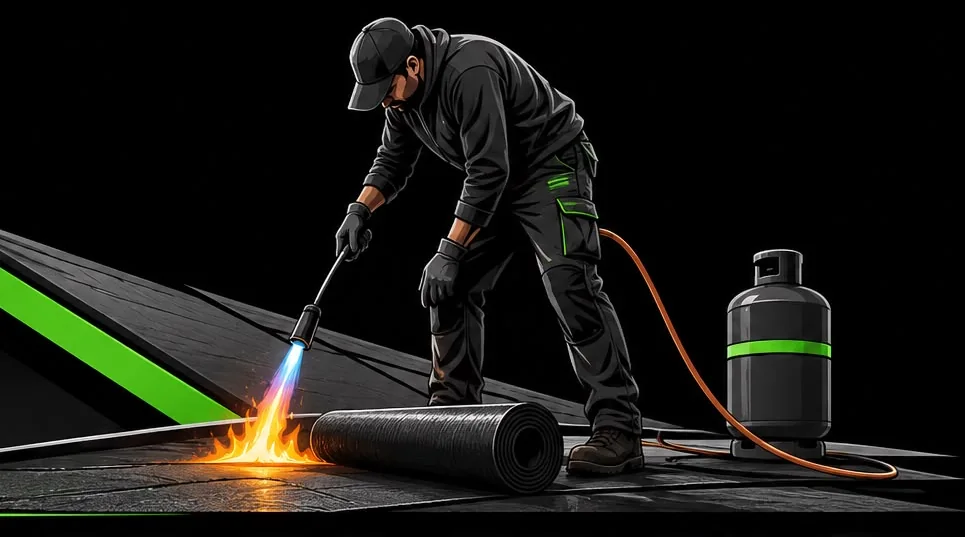
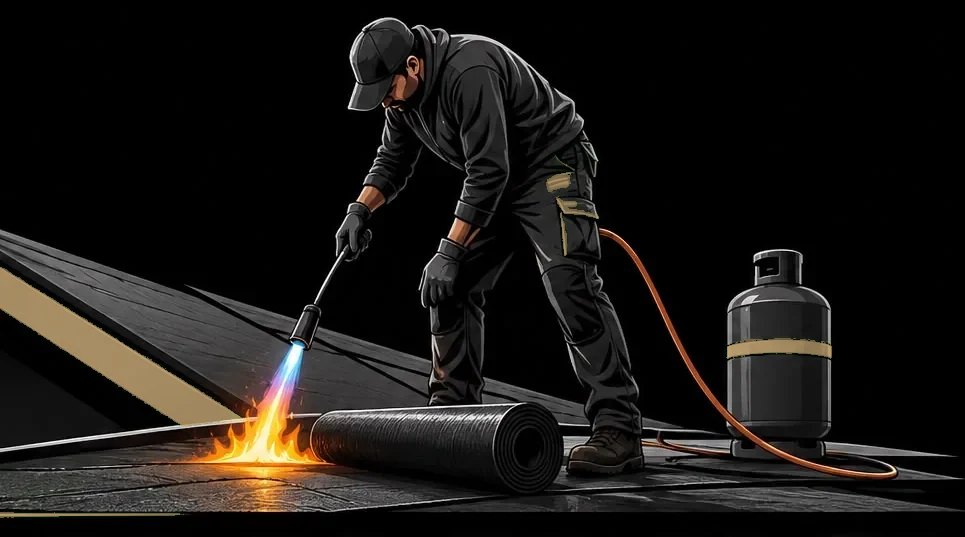
edit

diff --git a/src/app.css b/src/app.css
@@ -229,6 +229,15 @@ html[data-lime] .torch{display:block}
 .torch .e{left:28%;top:73%;width:var(--sz);height:var(--sz);border-radius:50%;background:#ffc15a;box-shadow:0 0 7px 2px rgba(255,150,40,.8);opacity:0;animation:emberup var(--d) var(--dl) linear infinite;will-change:transform,opacity}
 @keyframes emberup{0%{transform:translate3d(0,0,0) scale(1);opacity:0}10%{opacity:1}100%{transform:translate3d(var(--dx),var(--dy),0) scale(.25);opacity:0}}
 @media(prefers-reduced-motion:reduce){html[data-lime] .torch .e{display:none}}
+.werk-grid{display:grid;align-items:center;gap:1.75rem}
+@media(min-width:900px){.werk-grid{grid-template-columns:minmax(0,1.05fr) minmax(0,.95fr);column-gap:2.75rem}}
+.werk-art .hero-art-w{display:block;position:relative;width:100%;aspect-ratio:965/537}
+.werk-art .hero-art{-webkit-mask-image:none;mask-image:none}
+html[data-style="bruin"] .werk-art .torch{display:block!important}
+@media(prefers-reduced-motion:reduce){
+  .werk-art .torch .e{display:none}
+  .werk-art .t-halo,.werk-art .t-core,.werk-art .t-cast{animation:none}
+}
 .pano,.pano-card,.roofer-sec{display:none}
 html[data-lime] .roofer-sec{display:block}
 .pano img{width:100%;height:100%;object-fit:cover;object-position:68% 55%;display:block}

diff --git a/src/build.py b/src/build.py
@@ -167,7 +167,7 @@ def hero_photo(src, alt, pos="50% 50%", eager=True, pano=False):
 def roofer_art():
     eb = "".join(f'<i class="e" style="--dx:{dx}px;--dy:{dy}px;--d:{d}s;--dl:{dl}s;--sz:{sz}px"></i>' for dx, dy, d, dl, sz in
                  [(14,-70,2.6,0,3),(34,-112,3.4,.5,2),(-8,-96,3.0,1.1,3),(52,-140,3.8,1.6,2),(22,-60,2.2,2.0,4),(70,-124,4.0,.9,2),(6,-132,3.6,2.4,2),(40,-84,2.8,1.4,3),(-20,-78,2.4,.3,2),(62,-100,3.2,2.9,3),(28,-150,4.2,3.3,2),(10,-52,2.0,1.9,3)])
-    return ('<div class="hero-art-w"><img class="hero-art" src="/img/roofer.webp" width="965" height="537" loading="eager" alt="Dakdekker van Johnny\'s Dakwerken aan het werk op een dak met brander en bitumen"/>'
+    return ('<div class="hero-art-w"><img class="hero-art" src="/img/roofer.webp?v=gold" width="965" height="537" loading="eager" alt="Dakdekker van Johnny\'s Dakwerken aan het werk op een dak met brander en bitumen"/>'
             f'<span class="torch" aria-hidden="true"><i class="t-cast"></i><i class="t-halo"></i><i class="t-core"></i>{eb}</span></div>')
 
 FX = '<div class="fx" aria-hidden="true"></div>'
@@ -275,7 +275,7 @@ def home():
       f'<p class="text-[13px] font-semibold uppercase tracking-[0.16em] text-brand">Aan het werk</p><h2 class="mt-3 font-serif text-[clamp(1.55rem,3.55vw,2.45rem)] font-semibold leading-tight text-ink">Vakwerk op uw dak</h2>'
       f'<p class="mt-4 max-w-md text-lg text-muted">Johnny\'s Dakwerken pakt het dakwerk aan met vakkennis en eigen materieel. Vraag een offerte aan of bel voor een vrijblijvende inspectie.</p><div class="mt-6">{hero_cta()}</div></div><div>{roofer_art()}</div></div></section>'
       f'<section class="sec-pad border-y border-line bg-band px-5"><div class="mx-auto grid max-w-6xl items-center gap-6 md:grid-cols-[auto_1fr] md:gap-14">'
-      f'<div class="johnny-shot relative aspect-[4/5] w-full overflow-hidden r-img shadow-xl md:aspect-[3/4] md:w-[260px]"><img src="/img/johnny.jpg?v=2" alt="Johnny van Ophuizen" loading="eager" class="absolute inset-0 h-full w-full object-cover" style="object-position:50% 42%"/></div>'
+      f'<div class="johnny-shot relative aspect-[4/5] w-full overflow-hidden r-img shadow-xl md:aspect-[3/4] md:w-[260px]"><img src="/img/johnny.jpg?v=3" alt="Johnny van Ophuizen" loading="eager" class="absolute inset-0 h-full w-full object-cover" style="object-position:50% 42%"/></div>'
       f'<div><p class="text-[13px] font-semibold uppercase tracking-[0.16em] text-brand">Over ons</p>'
       f'<h2 class="mt-3 font-serif text-[clamp(1.55rem,3.55vw,2.45rem)] font-medium leading-tight text-ink">Even voorstellen: Johnny</h2>'
       f'<p class="mt-4 max-w-2xl text-lg text-muted">Met ruim +20 jaar ervaring in het dakdekkersvak weet Johnny als geen ander wat er komt kijken bij goed en vakkundig dakwerk. Samen met zijn team van ervaren vakmensen staat hij iedere dag klaar om kwaliteit en vakmanschap te leveren.</p>'
@@ -283,8 +283,9 @@ def home():
       f'<p class="mt-6"><a class="inline-flex min-h-[44px] items-center gap-2 text-[16px] font-semibold text-brand" href="/over-ons/">Meer over ons {ARROW}</a></p></div></div></section>'
       f'<section class="sec-pad px-5"><div class="site-hero">{sec_head("Waarom Johnny\'s Dakwerken", "Kwaliteit en service staan voorop")}<ul class="grid gap-5 sm:grid-cols-2 lg:grid-cols-4">{whyh}</ul>'
       f'<p class="mt-8"><a class="inline-flex min-h-[44px] items-center gap-2 text-[16px] font-semibold text-brand" href="/werkwijze/">Bekijk de werkwijze {ARROW}</a></p></div></section>'
-      f'<section class="sec-pad border-y border-line bg-band px-5"><div class="site-hero">{sec_head("Werkgebied", "Actief in heel Nederland, vanuit Deventer", "Johnny\'s Dakwerken werkt door het hele land: van spoedreparatie tot complete renovatie. Onze vestiging en uitvalsbasis is Deventer.")}'
-      f'<p class="-mt-6 max-w-2xl text-lg text-muted">Waar u ook woont in Nederland, u kunt ons bellen of mailen. We komen bij u langs voor een vrijblijvende inspectie en vakkundige uitvoering.</p></div></section>'
+      f'<section class="werk-sec sec-pad border-y border-line bg-band px-5"><div class="site-hero werk-grid"><div>{sec_head("Werkgebied", "Actief in heel Nederland, vanuit Deventer", "Johnny\'s Dakwerken werkt door het hele land: van spoedreparatie tot complete renovatie. Onze vestiging en uitvalsbasis is Deventer.")}'
+      f'<p class="-mt-6 max-w-2xl text-lg text-muted">Waar u ook woont in Nederland, u kunt ons bellen of mailen. We komen bij u langs voor een vrijblijvende inspectie en vakkundige uitvoering.</p></div>'
+      f'<div class="werk-art">{roofer_art()}</div></div></section>'
       f'{cta_band()}')
     page("/", "Dakdekker heel Nederland | Johnny's Dakwerken: bitumen, kunststof, leien, pannendaken en zinkwerk",
          "Johnny's Dakwerken: dakdekker actief in heel Nederland, vanuit Deventer. Ruim 20 jaar ervaring. Bitumen, EPDM en PVC, leien, pannendaken, zinkwerk en isolatie.", body, "/")
@@ -394,7 +395,7 @@ def over():
     body = (f'<section class="sec-pad bg-surface"><div class="site-hero over-ons-hero">'
       f'<p class="over-kicker flex items-center gap-2.5 text-[13px] font-semibold uppercase tracking-[0.14em] text-brand"><span class="kick-bar h-0.5 w-7 bg-accent" aria-hidden="true"></span>Over ons</p>'
       f'<h1 class="over-title mt-1 font-serif text-[clamp(1.8rem,4.45vw,3rem)] font-medium leading-[1.08] tracking-tight text-ink">Even voorstellen: Johnny</h1>'
-      f'<div class="over-photo-wrap"><div class="over-photo-in r-img shadow-md"><img src="/img/johnny.jpg?v=2" alt="Johnny van Ophuizen" loading="eager" width="320" height="400"/></div></div>'
+      f'<div class="over-photo-wrap"><div class="over-photo-in r-img shadow-md"><img src="/img/johnny.jpg?v=3" alt="Johnny van Ophuizen" loading="eager" width="320" height="400"/></div></div>'
       f'<div class="over-intro mt-2 flex flex-col gap-4 max-w-2xl">{intro}</div></div></section>'
       f'<section class="sec-pad px-5"><div class="mx-auto max-w-6xl">'
       f'<div class="r-card border border-line bg-card p-6 md:p-8"><h3 class="font-serif text-xl font-medium text-ink">De materialen waarmee wij werken</h3><ul class="mt-5 flex flex-wrap gap-2.5">{mats}</ul>'
